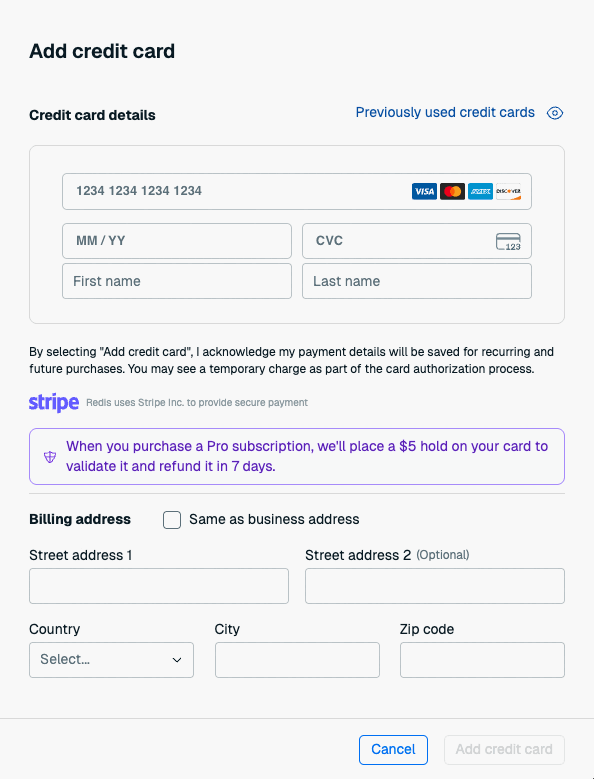
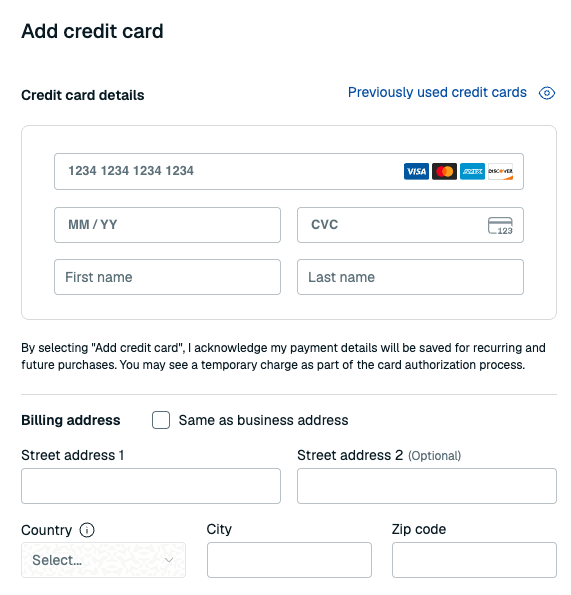
Separate Flex unit into multiple Flex units

diff --git a/content/embeds/rc-pro-billing-units.md b/content/embeds/rc-pro-billing-units.md
@@ -1,4 +1,4 @@
-The Redis Billing Unit types associated with your Pro subscription depend on your database memory size and throughput requirements.  
+The Redis Billing Unit types associated with your Pro subscription depend on your database memory size and throughput requirements.
 
 | Billing unit type | Capacity (Memory/Throughput) |
 |:------------|:----------|
@@ -10,12 +10,16 @@ The Redis Billing Unit types associated with your Pro subscription depend on you
 | Large | 25GB  / 25K ops/sec |
 | Very large<sup>[1](#table-note-1)</sup> | 50GB / 5K ops/sec |
 | XLarge<sup>[2](#table-note-2)</sup> | 50GB / 10K ops/sec |
-| Flex<sup>[3](#table-note-3)</sup> | 50GB / 5K ops/sec |
+| Flex-10<sup>[3](#table-note-3)</sup> | 50GB / 5K ops/sec |
+| Flex-20<sup>[3](#table-note-3)</sup> | 50GB / 10K ops/sec |
+| Flex-30<sup>[3](#table-note-3)</sup> | 50GB / 15K ops/sec |
+| Flex-40<sup>[3](#table-note-3)</sup> | 50GB / 20K ops/sec |
+| Flex-50<sup>[3](#table-note-3)</sup> | 50GB / 25K ops/sec |
 
 1. <a name="table-note-1" style="display: block; height: 80px; margin-top: -80px;"></a>Used for databases with Auto Tiering before Redis 7.2.
 
 2. <a name="table-note-2" style="display: block; height: 80px; margin-top: -80px;"></a>Used for hosted databases with Auto Tiering between Redis 7.2 and Redis 8.2. 
 
-3. <a name="table-note-3" style="display: block; height: 80px; margin-top: -80px;"></a>Used for Redis Flex databases for Redis 8.2 or later. The billing unit includes the RAM percentage you choose for your database.
+3. <a name="table-note-3" style="display: block; height: 80px; margin-top: -80px;"></a>Used for Redis Flex databases for Redis 8.2 or later. Available Flex billing units depend on the RAM percentage you set for your database.
 
 Prices vary according to the cloud provider and region.  Minimum prices apply.